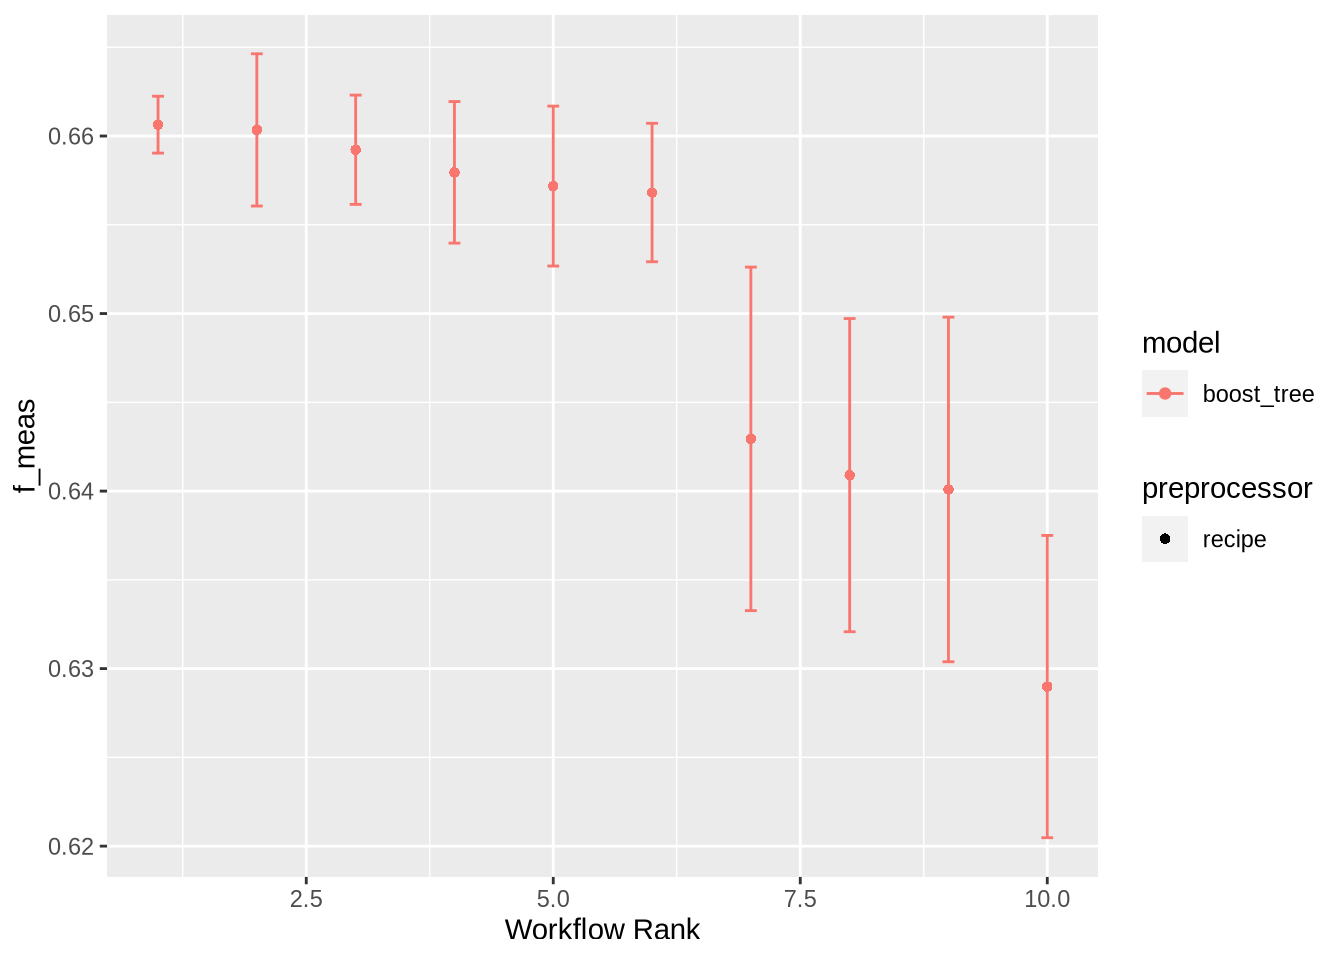
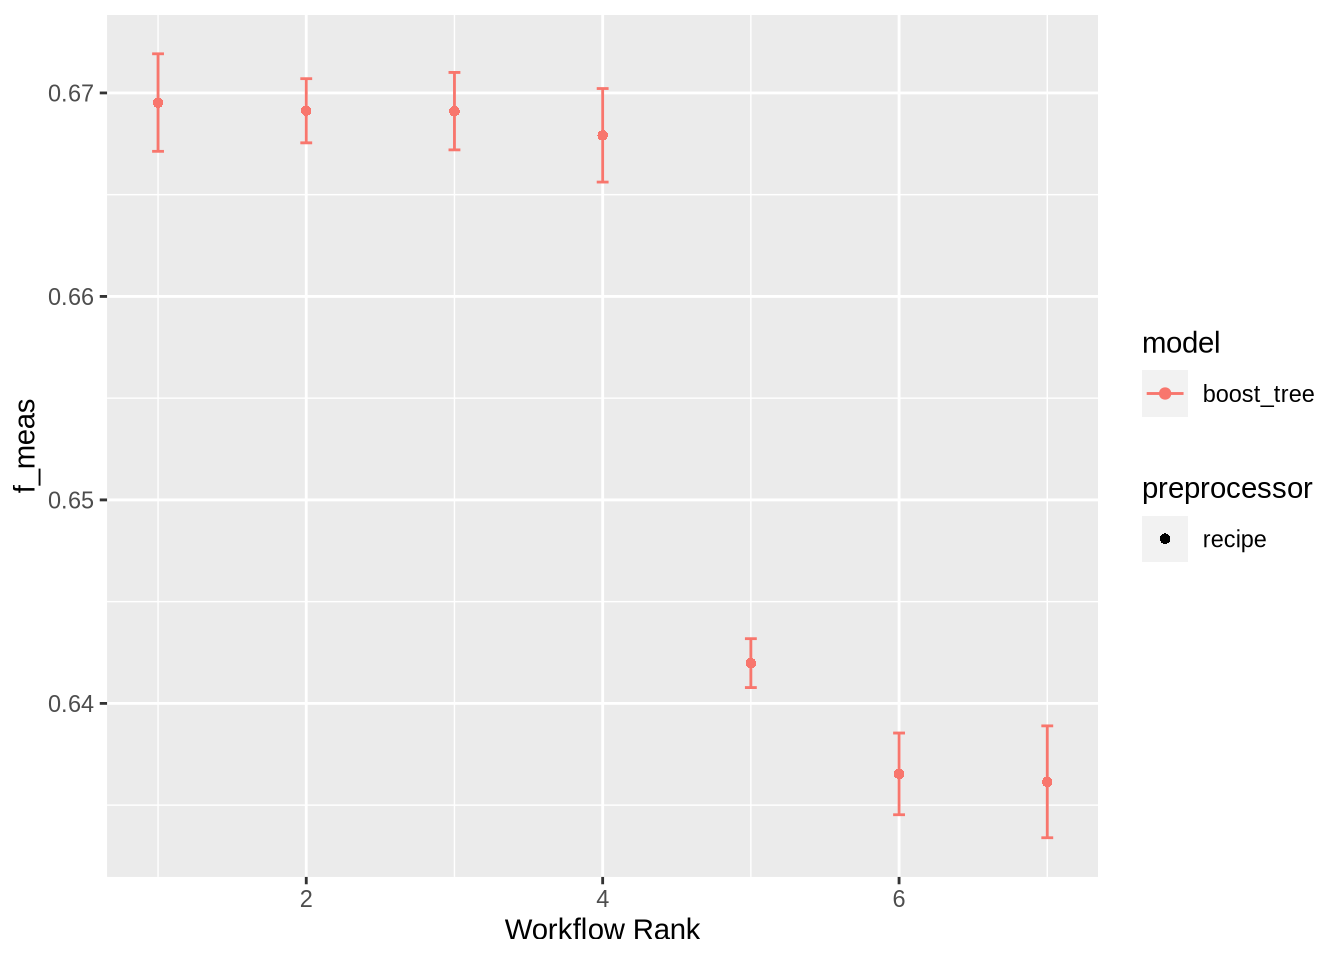
model run

diff --git a/docs/dengue-model/classification/03_model_ref_simp.html b/docs/dengue-model/classification/03_model_ref_simp.html
@@ -629,7 +629,7 @@ gtag('config', 'G-ZMP18L536K', { 'anonymize_ip': true});
     <div>
     <div class="quarto-title-meta-heading">Last modification</div>
     <div class="quarto-title-meta-contents">
-      <p class="date">February 13, 2024 | 12:43:36 -03:00</p>
+      <p class="date">February 14, 2024 | 04:52:14 -03:00</p>
     </div>
   </div>
   
@@ -710,7 +710,7 @@ gtag('config', 'G-ZMP18L536K', { 'anonymize_ip': true});
 <div class="sourceCode cell-code" id="cb6"><pre class="sourceCode r code-with-copy"><code class="sourceCode r"><span id="cb6-1"><a href="#cb6-1" aria-hidden="true" tabindex="-1"></a>rec_ref_simp_1 <span class="ot">&lt;-</span> <span class="fu">recipe</span>(CLASSI_FIN <span class="sc">~</span> ., <span class="at">data =</span> dc_ref_simp_training) <span class="sc">|&gt;</span></span>
 <span id="cb6-2"><a href="#cb6-2" aria-hidden="true" tabindex="-1"></a>  <span class="fu">step_rm</span>(CRITERIO, case_source, ID_MN_RESI, uf_res, DT_SIN_PRI) <span class="sc">|&gt;</span></span>
 <span id="cb6-3"><a href="#cb6-3" aria-hidden="true" tabindex="-1"></a>  <span class="fu">step_integer</span>(<span class="fu">all_logical_predictors</span>()) <span class="sc">|&gt;</span></span>
-<span id="cb6-4"><a href="#cb6-4" aria-hidden="true" tabindex="-1"></a>  <span class="fu">step_mutate_at</span>(<span class="fu">all_of</span>(symp_cond_vars), <span class="at">fn =</span> <span class="sc">~</span><span class="fu">replace_na</span>(., <span class="dv">0</span>)) <span class="sc">|&gt;</span></span>
+<span id="cb6-4"><a href="#cb6-4" aria-hidden="true" tabindex="-1"></a>  <span class="fu">step_unknown</span>(CS_SEXO, CS_GESTANT) <span class="sc">|&gt;</span></span>
 <span id="cb6-5"><a href="#cb6-5" aria-hidden="true" tabindex="-1"></a>  <span class="fu">step_other</span>(CS_GESTANT) <span class="sc">|&gt;</span></span>
 <span id="cb6-6"><a href="#cb6-6" aria-hidden="true" tabindex="-1"></a>  <span class="fu">step_dummy</span>(CS_SEXO, CS_GESTANT)</span></code><button title="Copy to Clipboard" class="code-copy-button"><i class="bi"></i></button></pre></div>
 </div>
@@ -724,12 +724,12 @@ gtag('config', 'G-ZMP18L536K', { 'anonymize_ip': true});
 <div class="sourceCode cell-code" id="cb7"><pre class="sourceCode r code-with-copy"><code class="sourceCode r"><span id="cb7-1"><a href="#cb7-1" aria-hidden="true" tabindex="-1"></a>rec_ref_simp_2 <span class="ot">&lt;-</span> <span class="fu">recipe</span>(CLASSI_FIN <span class="sc">~</span> ., <span class="at">data =</span> dc_ref_simp_training) <span class="sc">|&gt;</span></span>
 <span id="cb7-2"><a href="#cb7-2" aria-hidden="true" tabindex="-1"></a>  <span class="fu">step_rm</span>(CRITERIO, case_source, ID_MN_RESI) <span class="sc">|&gt;</span></span>
 <span id="cb7-3"><a href="#cb7-3" aria-hidden="true" tabindex="-1"></a>  <span class="fu">step_date</span>(DT_SIN_PRI, <span class="at">features =</span> <span class="fu">c</span>(<span class="st">"month"</span>), <span class="at">keep_original_cols =</span> <span class="cn">FALSE</span>) <span class="sc">|&gt;</span></span>
-<span id="cb7-4"><a href="#cb7-4" aria-hidden="true" tabindex="-1"></a>  <span class="fu">step_dummy</span>(DT_SIN_PRI_month, <span class="at">one_hot =</span> <span class="cn">TRUE</span>) <span class="sc">|&gt;</span></span>
-<span id="cb7-5"><a href="#cb7-5" aria-hidden="true" tabindex="-1"></a>  <span class="fu">step_dummy</span>(uf_res, <span class="at">one_hot =</span> <span class="cn">TRUE</span>) <span class="sc">|&gt;</span></span>
+<span id="cb7-4"><a href="#cb7-4" aria-hidden="true" tabindex="-1"></a>  <span class="fu">step_dummy</span>(DT_SIN_PRI_month) <span class="sc">|&gt;</span></span>
+<span id="cb7-5"><a href="#cb7-5" aria-hidden="true" tabindex="-1"></a>  <span class="fu">step_dummy</span>(uf_res) <span class="sc">|&gt;</span></span>
 <span id="cb7-6"><a href="#cb7-6" aria-hidden="true" tabindex="-1"></a>  <span class="fu">step_integer</span>(<span class="fu">all_logical_predictors</span>()) <span class="sc">|&gt;</span></span>
-<span id="cb7-7"><a href="#cb7-7" aria-hidden="true" tabindex="-1"></a>  <span class="fu">step_mutate_at</span>(<span class="fu">all_of</span>(symp_cond_vars), <span class="at">fn =</span> <span class="sc">~</span><span class="fu">replace_na</span>(., <span class="dv">0</span>)) <span class="sc">|&gt;</span></span>
+<span id="cb7-7"><a href="#cb7-7" aria-hidden="true" tabindex="-1"></a>  <span class="fu">step_unknown</span>(CS_SEXO, CS_GESTANT) <span class="sc">|&gt;</span></span>
 <span id="cb7-8"><a href="#cb7-8" aria-hidden="true" tabindex="-1"></a>  <span class="fu">step_other</span>(CS_GESTANT) <span class="sc">|&gt;</span></span>
-<span id="cb7-9"><a href="#cb7-9" aria-hidden="true" tabindex="-1"></a>  <span class="fu">step_dummy</span>(CS_SEXO, CS_GESTANT, <span class="at">one_hot =</span> <span class="cn">TRUE</span>)</span></code><button title="Copy to Clipboard" class="code-copy-button"><i class="bi"></i></button></pre></div>
+<span id="cb7-9"><a href="#cb7-9" aria-hidden="true" tabindex="-1"></a>  <span class="fu">step_dummy</span>(CS_SEXO, CS_GESTANT)</span></code><button title="Copy to Clipboard" class="code-copy-button"><i class="bi"></i></button></pre></div>
 </div>
 </section>
 </section>
@@ -787,13 +787,13 @@ gtag('config', 'G-ZMP18L536K', { 'anonymize_ip': true});
 <pre><code>i 1 of 2 tuning:     rec_ref_simp_1_xgb</code></pre>
 </div>
 <div class="cell-output cell-output-stderr">
-<pre><code>✔ 1 of 2 tuning:     rec_ref_simp_1_xgb (2m 10.2s)</code></pre>
+<pre><code>✔ 1 of 2 tuning:     rec_ref_simp_1_xgb (29m 6.2s)</code></pre>
 </div>
 <div class="cell-output cell-output-stderr">
 <pre><code>i 2 of 2 tuning:     rec_ref_simp_2_xgb</code></pre>
 </div>
 <div class="cell-output cell-output-stderr">
-<pre><code>✔ 2 of 2 tuning:     rec_ref_simp_2_xgb (4m 25.9s)</code></pre>
+<pre><code>✔ 2 of 2 tuning:     rec_ref_simp_2_xgb (50m 24.6s)</code></pre>
 </div>
 </div>
 <div class="cell">
@@ -801,20 +801,20 @@ gtag('config', 'G-ZMP18L536K', { 'anonymize_ip': true});
 <span id="cb15-2"><a href="#cb15-2" aria-hidden="true" tabindex="-1"></a></span>
 <span id="cb15-3"><a href="#cb15-3" aria-hidden="true" tabindex="-1"></a>ref_simp_tuning_ranking_results</span></code><button title="Copy to Clipboard" class="code-copy-button"><i class="bi"></i></button></pre></div>
 <div class="cell-output cell-output-stdout">
-<pre><code># A tibble: 50 × 9
+<pre><code># A tibble: 35 × 9
    wflow_id         .config .metric  mean std_err     n preprocessor model  rank
    &lt;chr&gt;            &lt;chr&gt;   &lt;chr&gt;   &lt;dbl&gt;   &lt;dbl&gt; &lt;int&gt; &lt;chr&gt;        &lt;chr&gt; &lt;int&gt;
- 1 rec_ref_simp_2_… Prepro… accura… 0.645 1.29e-3     5 recipe       boos…     1
- 2 rec_ref_simp_2_… Prepro… f_meas  0.661 9.74e-4     5 recipe       boos…     1
- 3 rec_ref_simp_2_… Prepro… roc_auc 0.697 3.06e-3     5 recipe       boos…     1
- 4 rec_ref_simp_2_… Prepro… sens    0.670 2.75e-3     5 recipe       boos…     1
- 5 rec_ref_simp_2_… Prepro… spec    0.619 4.62e-3     5 recipe       boos…     1
- 6 rec_ref_simp_2_… Prepro… accura… 0.646 3.03e-3     5 recipe       boos…     2
- 7 rec_ref_simp_2_… Prepro… f_meas  0.660 2.61e-3     5 recipe       boos…     2
- 8 rec_ref_simp_2_… Prepro… roc_auc 0.700 3.53e-3     5 recipe       boos…     2
- 9 rec_ref_simp_2_… Prepro… sens    0.667 3.16e-3     5 recipe       boos…     2
-10 rec_ref_simp_2_… Prepro… spec    0.625 5.46e-3     5 recipe       boos…     2
-# ℹ 40 more rows</code></pre>
+ 1 rec_ref_simp_2_… Prepro… accura… 0.654 1.16e-3     5 recipe       boos…     1
+ 2 rec_ref_simp_2_… Prepro… f_meas  0.670 1.46e-3     5 recipe       boos…     1
+ 3 rec_ref_simp_2_… Prepro… roc_auc 0.712 7.24e-4     5 recipe       boos…     1
+ 4 rec_ref_simp_2_… Prepro… sens    0.680 2.29e-3     5 recipe       boos…     1
+ 5 rec_ref_simp_2_… Prepro… spec    0.626 1.01e-3     5 recipe       boos…     1
+ 6 rec_ref_simp_2_… Prepro… accura… 0.654 6.41e-4     5 recipe       boos…     2
+ 7 rec_ref_simp_2_… Prepro… f_meas  0.669 9.59e-4     5 recipe       boos…     2
+ 8 rec_ref_simp_2_… Prepro… roc_auc 0.713 7.81e-4     5 recipe       boos…     2
+ 9 rec_ref_simp_2_… Prepro… sens    0.679 2.22e-3     5 recipe       boos…     2
+10 rec_ref_simp_2_… Prepro… spec    0.628 2.24e-3     5 recipe       boos…     2
+# ℹ 25 more rows</code></pre>
 </div>
 </div>
 <div class="cell">
@@ -847,7 +847,7 @@ gtag('config', 'G-ZMP18L536K', { 'anonymize_ip': true});
 <pre><code># A tibble: 1 × 4
   trees min_n learn_rate .config              
   &lt;int&gt; &lt;int&gt;      &lt;dbl&gt; &lt;chr&gt;                
-1   726    14    0.00842 Preprocessor1_Model04</code></pre>
+1  1111     9     0.0291 Preprocessor1_Model02</code></pre>
 </div>
 </div>
 <div class="cell">
@@ -855,44 +855,34 @@ gtag('config', 'G-ZMP18L536K', { 'anonymize_ip': true});
 <span id="cb22-2"><a href="#cb22-2" aria-hidden="true" tabindex="-1"></a>  <span class="fu">extract_workflow</span>(ref_simp_selection) <span class="sc">|&gt;</span></span>
 <span id="cb22-3"><a href="#cb22-3" aria-hidden="true" tabindex="-1"></a>  <span class="fu">finalize_workflow</span>(ref_simp_best_results) <span class="sc">|&gt;</span></span>
 <span id="cb22-4"><a href="#cb22-4" aria-hidden="true" tabindex="-1"></a>  <span class="fu">last_fit</span>(dc_ref_simp_split)</span></code><button title="Copy to Clipboard" class="code-copy-button"><i class="bi"></i></button></pre></div>
-<div class="cell-output cell-output-stderr">
-<pre><code>→ A | warning: There are new levels in a factor: NA</code></pre>
-</div>
-<div class="cell-output cell-output-stderr">
-<pre><code>There were issues with some computations   A: x1
-There were issues with some computations   A: x1</code></pre>
-</div>
-<div class="cell-output cell-output-stderr">
-<pre><code></code></pre>
-</div>
 </div>
 </section>
 <section id="model-evaluation" class="level2">
 <h2 class="anchored" data-anchor-id="model-evaluation">Model evaluation</h2>
 <div class="cell">
-<div class="sourceCode cell-code" id="cb26"><pre class="sourceCode r code-with-copy"><code class="sourceCode r"><span id="cb26-1"><a href="#cb26-1" aria-hidden="true" tabindex="-1"></a><span class="fu">collect_metrics</span>(ref_simp_last_fit)</span></code><button title="Copy to Clipboard" class="code-copy-button"><i class="bi"></i></button></pre></div>
+<div class="sourceCode cell-code" id="cb23"><pre class="sourceCode r code-with-copy"><code class="sourceCode r"><span id="cb23-1"><a href="#cb23-1" aria-hidden="true" tabindex="-1"></a><span class="fu">collect_metrics</span>(ref_simp_last_fit)</span></code><button title="Copy to Clipboard" class="code-copy-button"><i class="bi"></i></button></pre></div>
 <div class="cell-output cell-output-stdout">
 <pre><code># A tibble: 2 × 4
   .metric  .estimator .estimate .config             
   &lt;chr&gt;    &lt;chr&gt;          &lt;dbl&gt; &lt;chr&gt;               
-1 accuracy binary         0.650 Preprocessor1_Model1
-2 roc_auc  binary         0.697 Preprocessor1_Model1</code></pre>
+1 accuracy binary         0.657 Preprocessor1_Model1
+2 roc_auc  binary         0.717 Preprocessor1_Model1</code></pre>
 </div>
 </div>
 <div class="cell">
-<div class="sourceCode cell-code" id="cb28"><pre class="sourceCode r code-with-copy"><code class="sourceCode r"><span id="cb28-1"><a href="#cb28-1" aria-hidden="true" tabindex="-1"></a><span class="fu">collect_predictions</span>(ref_simp_last_fit) <span class="sc">%&gt;%</span></span>
-<span id="cb28-2"><a href="#cb28-2" aria-hidden="true" tabindex="-1"></a>    <span class="fu">conf_mat</span>(CLASSI_FIN, .pred_class)</span></code><button title="Copy to Clipboard" class="code-copy-button"><i class="bi"></i></button></pre></div>
+<div class="sourceCode cell-code" id="cb25"><pre class="sourceCode r code-with-copy"><code class="sourceCode r"><span id="cb25-1"><a href="#cb25-1" aria-hidden="true" tabindex="-1"></a><span class="fu">collect_predictions</span>(ref_simp_last_fit) <span class="sc">%&gt;%</span></span>
+<span id="cb25-2"><a href="#cb25-2" aria-hidden="true" tabindex="-1"></a>    <span class="fu">conf_mat</span>(CLASSI_FIN, .pred_class)</span></code><button title="Copy to Clipboard" class="code-copy-button"><i class="bi"></i></button></pre></div>
 <div class="cell-output cell-output-stdout">
 <pre><code>          Truth
 Prediction Negative Positive
-  Negative     1605      831
-  Positive      797     1425</code></pre>
+  Negative    16543     8435
+  Positive     7692    14347</code></pre>
 </div>
 </div>
 <div class="cell">
-<div class="sourceCode cell-code" id="cb30"><pre class="sourceCode r code-with-copy"><code class="sourceCode r"><span id="cb30-1"><a href="#cb30-1" aria-hidden="true" tabindex="-1"></a>ref_simp_last_fit <span class="sc">%&gt;%</span></span>
-<span id="cb30-2"><a href="#cb30-2" aria-hidden="true" tabindex="-1"></a>  <span class="fu">extract_fit_engine</span>() <span class="sc">%&gt;%</span></span>
-<span id="cb30-3"><a href="#cb30-3" aria-hidden="true" tabindex="-1"></a>  <span class="fu">vip</span>()</span></code><button title="Copy to Clipboard" class="code-copy-button"><i class="bi"></i></button></pre></div>
+<div class="sourceCode cell-code" id="cb27"><pre class="sourceCode r code-with-copy"><code class="sourceCode r"><span id="cb27-1"><a href="#cb27-1" aria-hidden="true" tabindex="-1"></a>ref_simp_last_fit <span class="sc">%&gt;%</span></span>
+<span id="cb27-2"><a href="#cb27-2" aria-hidden="true" tabindex="-1"></a>  <span class="fu">extract_fit_engine</span>() <span class="sc">%&gt;%</span></span>
+<span id="cb27-3"><a href="#cb27-3" aria-hidden="true" tabindex="-1"></a>  <span class="fu">vip</span>()</span></code><button title="Copy to Clipboard" class="code-copy-button"><i class="bi"></i></button></pre></div>
 <div class="cell-output-display">
 <p><img src="03_model_ref_simp_files/figure-html/unnamed-chunk-18-1.png" class="img-fluid" width="672"></p>
 </div>
@@ -901,7 +891,7 @@ Prediction Negative Positive
 <section id="session-info" class="level2">
 <h2 class="anchored" data-anchor-id="session-info">Session info</h2>
 <div class="cell">
-<div class="sourceCode cell-code" id="cb31"><pre class="sourceCode r code-with-copy"><code class="sourceCode r"><span id="cb31-1"><a href="#cb31-1" aria-hidden="true" tabindex="-1"></a><span class="fu">session_info</span>()</span></code><button title="Copy to Clipboard" class="code-copy-button"><i class="bi"></i></button></pre></div>
+<div class="sourceCode cell-code" id="cb28"><pre class="sourceCode r code-with-copy"><code class="sourceCode r"><span id="cb28-1"><a href="#cb28-1" aria-hidden="true" tabindex="-1"></a><span class="fu">session_info</span>()</span></code><button title="Copy to Clipboard" class="code-copy-button"><i class="bi"></i></button></pre></div>
 <div class="cell-output cell-output-stdout">
 <pre><code>─ Session info ───────────────────────────────────────────────────────────────
  setting  value
@@ -913,7 +903,7 @@ Prediction Negative Positive
  collate  pt_BR.UTF-8
  ctype    pt_BR.UTF-8
  tz       America/Sao_Paulo
- date     2024-02-13
+ date     2024-02-14
  pandoc   3.1.1 @ /home/raphaelfs/miniconda3/envs/quarto/bin/ (via rmarkdown)
 
 ─ Packages ───────────────────────────────────────────────────────────────────
